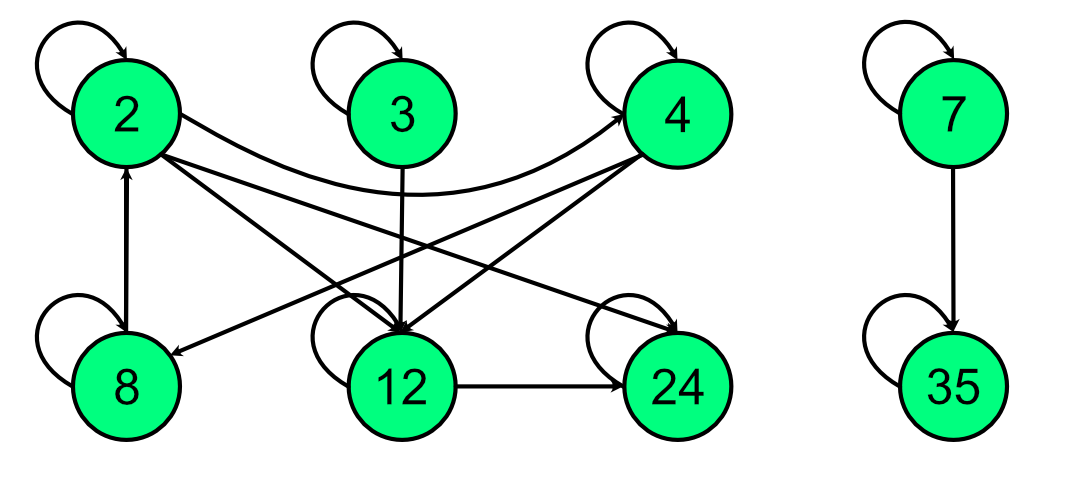
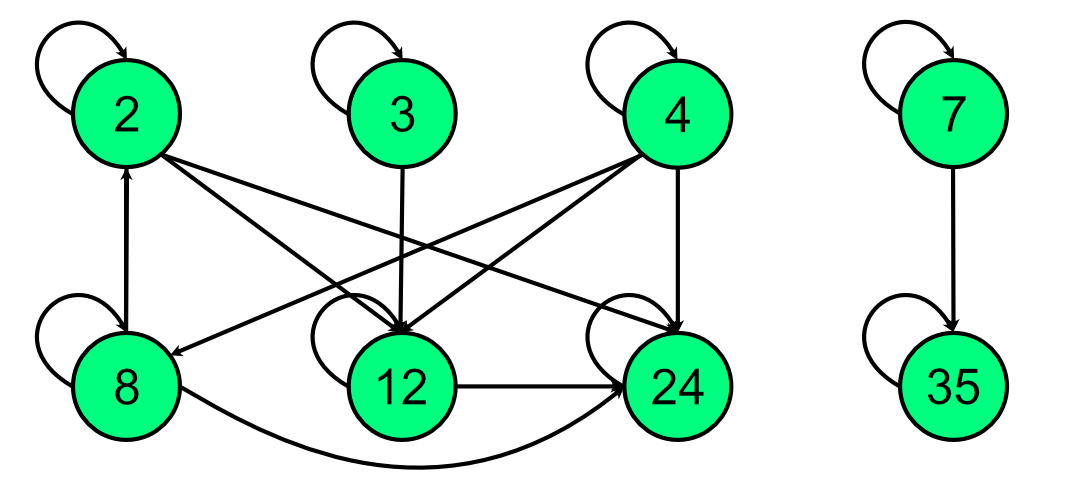
Hasse diagram image

diff --git a/Fleeting/Ordering Relations.md b/Fleeting/Ordering Relations.md
@@ -17,9 +17,12 @@ A meet, or the *greatest lower bound*, is given by the greatest element in $P$ t
 It should be said that $p \land p = p \lor p = p$ for all $p$ in $P$ and $p \unlhd q \leftrightarrow p\land q = p \leftrightarrow p \lor q = q$. 
 
 ### ++ Relations ++
-Partial ordered sets could be drawn out as a diagram, where arrows indicate the relations. The following diagram is of poset $A = \{ 2, 3, 4, 7, 8, 12, 24, 35 \}$ where the where $R$ is relation $R = \{ (x, y) \in A \times A : x / y \}$
+Partial ordered sets could be drawn out as a diagram, where arrows indicate the relations. The following diagram is of poset $A = \{ 2, 3, 4, 7, 8, 12, 24, 35 \}$ where the where $R$ is relation $R = \{ (x, y) \in A \times A : x / y \}$ 
 ![Numerical Poset|center|700](../Images/Example_Poset.png)
-It can be observed that the direction of the edges indicates the relation from $x$ to $y$. A poset is reflexive, which is shown by the edges pointing in onto a vertex. 
+It can be observed that the direction of the edges indicates the relation from $x$ to $y$. A poset is reflexive, which is shown by the edges pointing in onto a vertex. This diagram could be simplified into a *Hasse diagram*, where the arrows indicating direction all points up and divisors of higher level dividends are connected by other vertices. 
+![Hasse diagram | 700](Hasse_Diagram.png)
+
+
 
 ___
 # References
